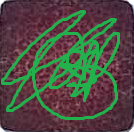
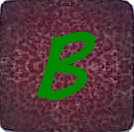
Changement de carte lorsqu'un pion arrive dans la zone finale. Ajout de positions bloquées (generateBlockedList) Changement des images pour les cartes

Changed region(s): [[0.0, 0.0606, 0.8955, 0.9091]]

diff --git a/Bakari/src/game/Game.java b/Bakari/src/game/Game.java
@@ -128,7 +128,7 @@ public class Game extends Thread
 	 * @param p
 	 */
 	public void possibility(Pawn p){
-		//generateBlockedList(); // Génération de la liste blockedList
+		generateBlockedList();
 		int posX = p.getPositionX();
 		int posY = p.getPositionY();
 		
@@ -175,7 +175,6 @@ public class Game extends Thread
 		if(authorizedPos.contains("("+x+","+y+")") && !blockedPos.contains("("+x+","+y+")")){
 			mainWindow.addText("Déplacement : " + p.getPositionX() + ";" + p.getPositionY() + " => " + x + ";" + y);
 			p.setPositions(x, y);
-			System.out.println("********* Pion déplacé *********");
 			endturn = true;
 			notify();
 			checkWin(thePlayer,p);
@@ -207,18 +206,20 @@ public class Game extends Thread
 		if(boardGame.getColour(pa.getPositionX(),pa.getPositionY())==Colour.WHITE){
 			p.removePawn(pa);
 			if(p.getPawns().size()==0){
-				System.out.println("Fin de la partie pour " +p.getNom());
+				mainWindow.addText("Fin de la partie pour " +p.getNom());
 				this.listPlayers.remove(p);
 				listWinners.add(p);
 			}
 			if(listPlayers.size()==1){
-				System.out.println("Fin de la partie. \nLe gagnant est "+listWinners.get(0));
+				mainWindow.addText("Fin de la partie. \nLe gagnant est "+listWinners.get(0));
 				isFinished=true;
 			}
-			if(listCard.size()!=0)
+			if(listCard.size()!=0){
 			takeCard();
-			System.out.println("Un pion est arrivé à destination, changement de carte...");
+			mainWindow.addText("Un pion est arrivé à destination, changement de carte...");
+			mainWindow.updateCard();
 			return true;
+			}
 		}
 		return false;
 	}
@@ -279,15 +280,15 @@ public class Game extends Thread
 	/**
 	 * Méthode qui permet de tirer une carte
 	 */
-	public void takeCard()
-	{
+	public void takeCard(){
 		if(listCard.size() == 0) {
 			initCard();
 		}
-		else {
-			listCard.remove(0);
-		}
 		currentCard = listCard.get(0);
+		listCard.remove(0);
+		if(listCard.size() == 0) {
+			initCard();
+		}
 	}
 
 	public BoardGame getBoardGame() {

diff --git a/Bakari/src/gui/panels/CardPanel.java b/Bakari/src/gui/panels/CardPanel.java
@@ -26,7 +26,6 @@ public class CardPanel extends JPanel
 		this.label.setText("<html><u>Carte tirée :</u></html>");
 		this.label.setBounds(10, 20, 134, 30);
 		this.add(label);
-		
 		currentImagePanel = new ImagePanel("dos.png");
 		currentImagePanel.setBounds(10, 60, 134, 132);
 		this.add(currentImagePanel);

diff --git a/Bakari/src/testsUnitaires/TestJUnit4.java b/Bakari/src/testsUnitaires/TestJUnit4.java
@@ -57,7 +57,7 @@ public class TestJUnit4 extends TestCase {
 	@Test
 	public void testMovePawnSucces() {
 		init();
-		assertTrue(g.movePawn(p1, pa1, 0, 1));
+		assertTrue(g.movePawn(p1, pa1, 0, 0));
 	}
 	@Test
 	public void testMovePawnFail() {

diff --git a/Bakari/src/gui/panels/init/ImagePanel.java b/Bakari/src/gui/panels/init/ImagePanel.java
@@ -33,6 +33,7 @@ public class ImagePanel extends JPanel
 	
 	public void setImgName(String imgName) {
 		this.imgName = imgName;
+		repaint();
 	}
 
 	public String getImgName()
